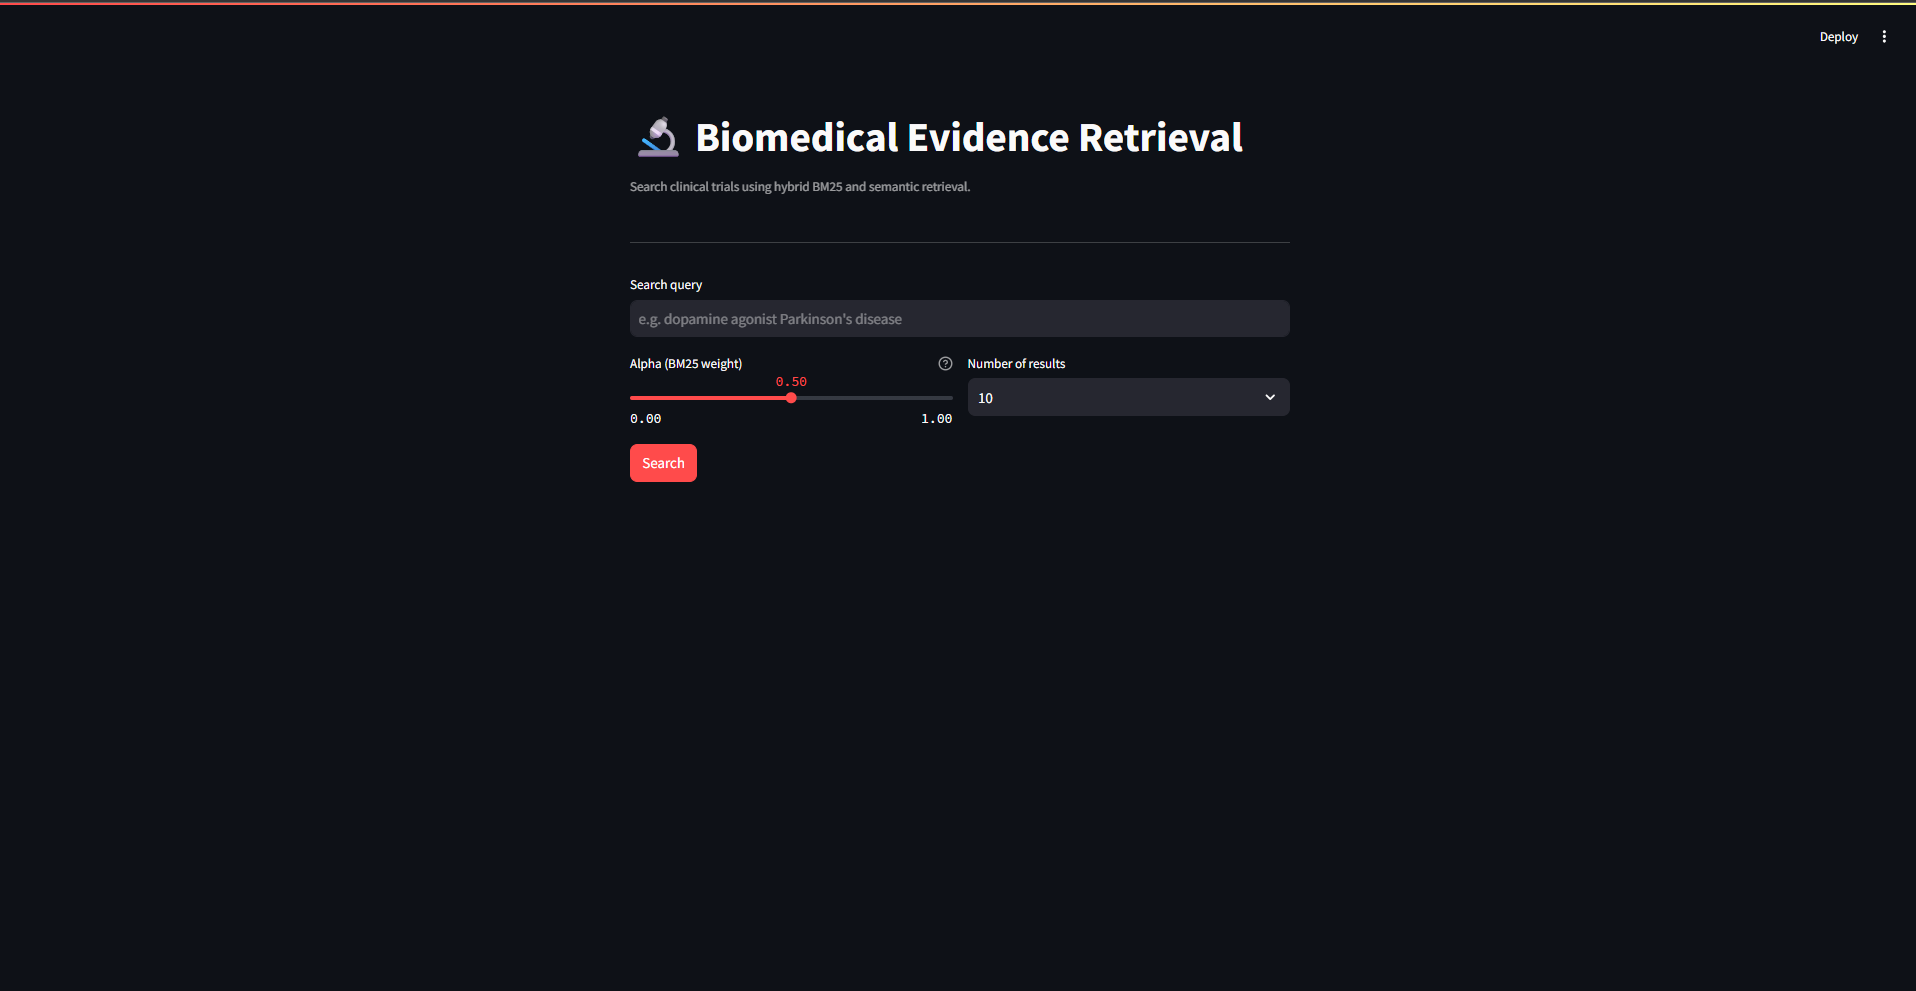
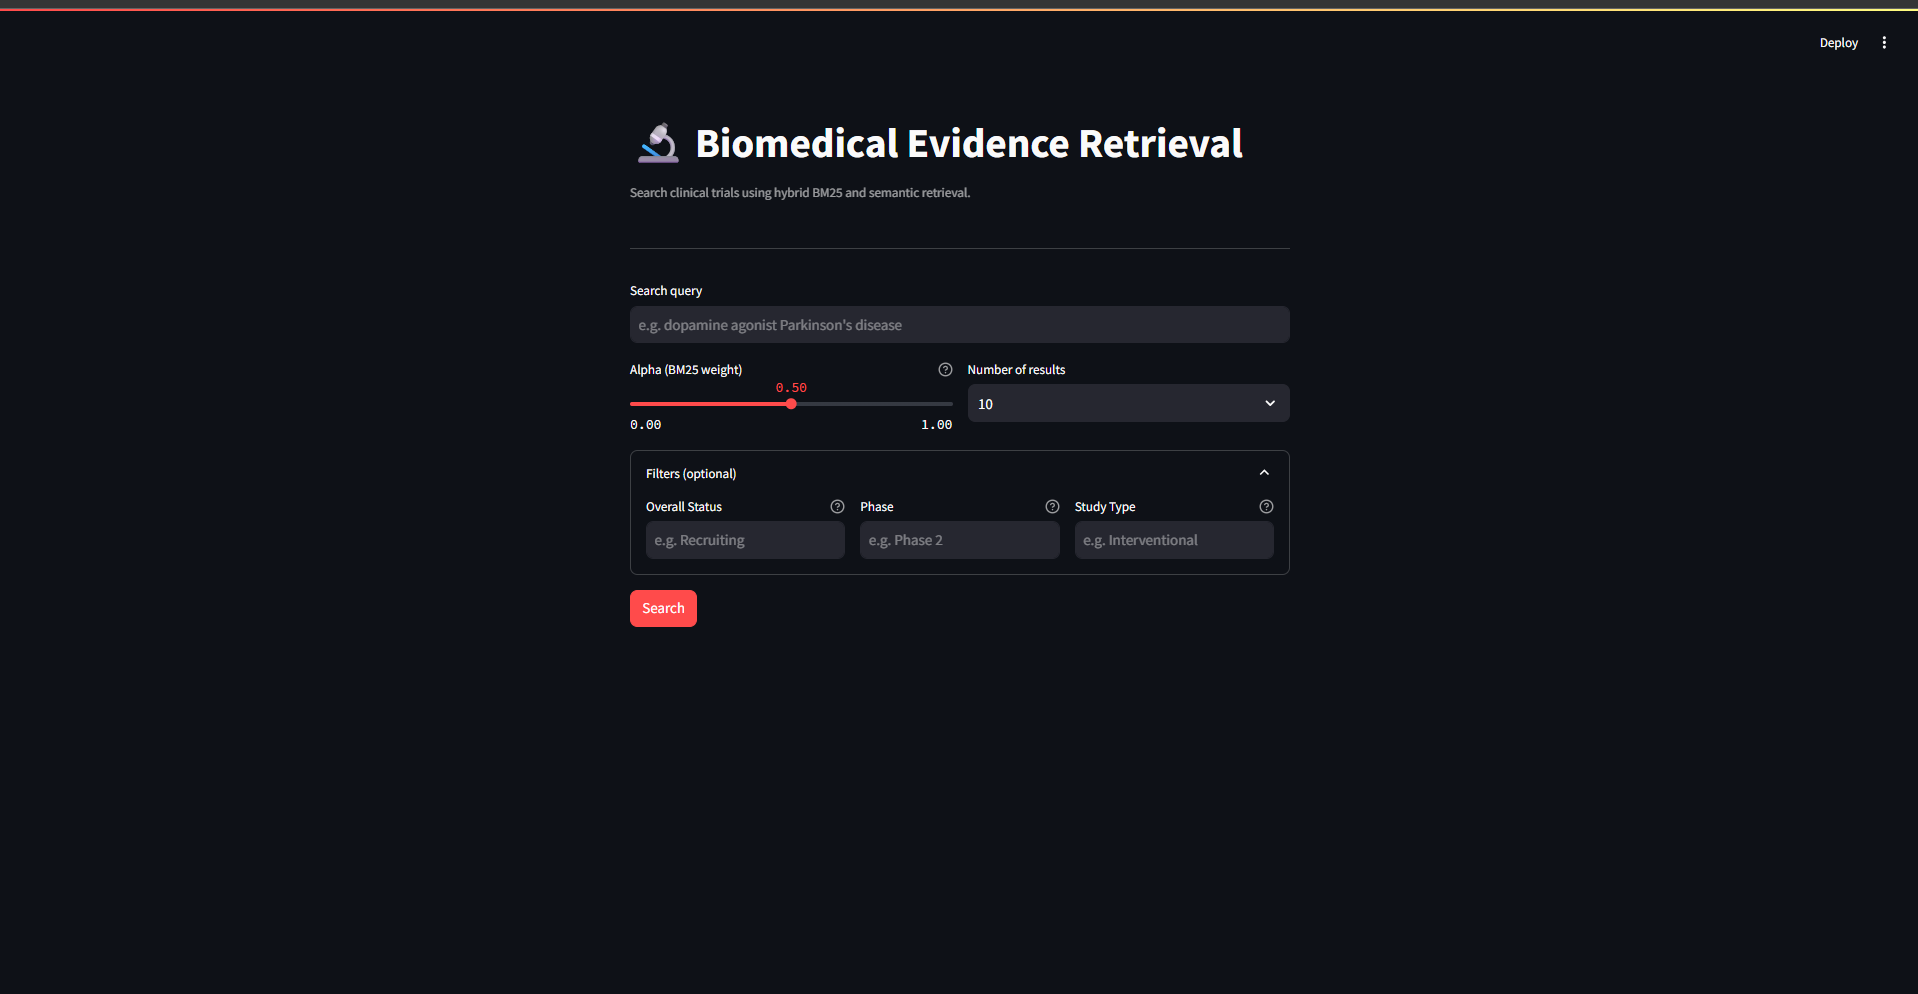
Update documentation and add CI

Changed region(s): [[0.3079, 0.2725, 0.6775, 0.6357], [0.0, 0.0, 1.0, 0.0605], [0.3079, 0.1211, 0.6467, 0.2119]]

diff --git a/README.md b/README.md
@@ -1,5 +1,7 @@
 # Biomedical Evidence Retrieval Benchmark
 
+[![CI](https://github.com/gabrielepecchi/biomedical-evidence-retrieval/actions/workflows/ci.yml/badge.svg)](https://github.com/gabrielepecchi/biomedical-evidence-retrieval/actions/workflows/ci.yml)
+
 A portfolio project that benchmarks hybrid retrieval over clinical trial records, combining BM25 and semantic similarity, with a FastAPI backend and a Streamlit frontend.
 
 ---
@@ -244,8 +246,8 @@ python -m streamlit run ui/streamlit_app.py
 
 ## Screenshots
 
-![Streamlit search interface](assets/screenshots/search-home.png)
-*Streamlit search interface*
+![Streamlit search interface with optional filters](assets/screenshots/search-home.png)
+*Streamlit search interface with optional status, phase, and study type filters*
 
 ![Search results with hybrid scores](assets/screenshots/search-results.png)
 *Search results with hybrid scores*
@@ -255,9 +257,6 @@ python -m streamlit run ui/streamlit_app.py
 
 ![FastAPI interactive API docs](assets/screenshots/api-docs.png)
 *FastAPI interactive API docs*
-
-![Filtered search with optional status, phase, and study type filters](assets/screenshots/filtered-search.png)
-*Filtered search with optional status, phase, and study type filters.*
 
 ---
 